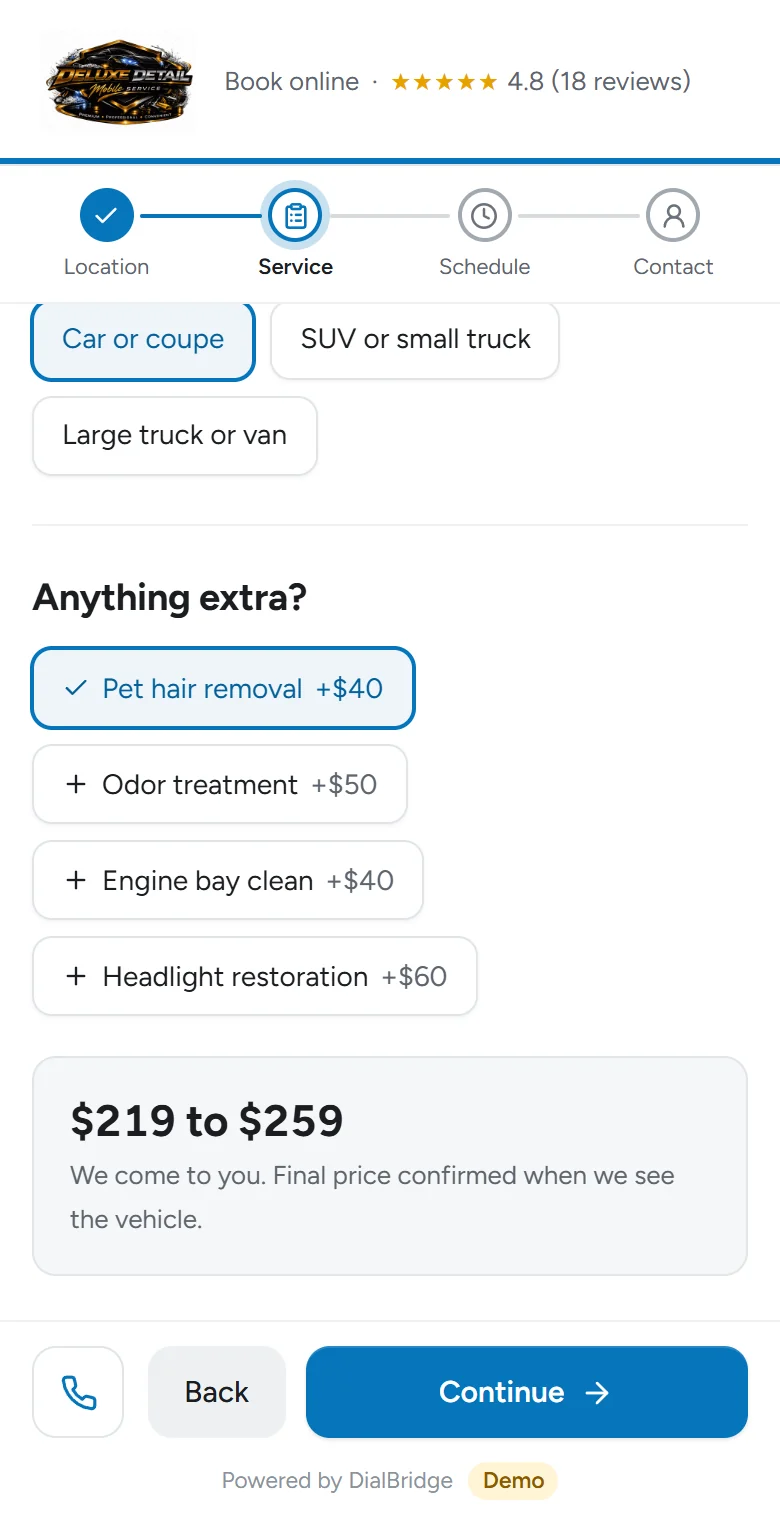
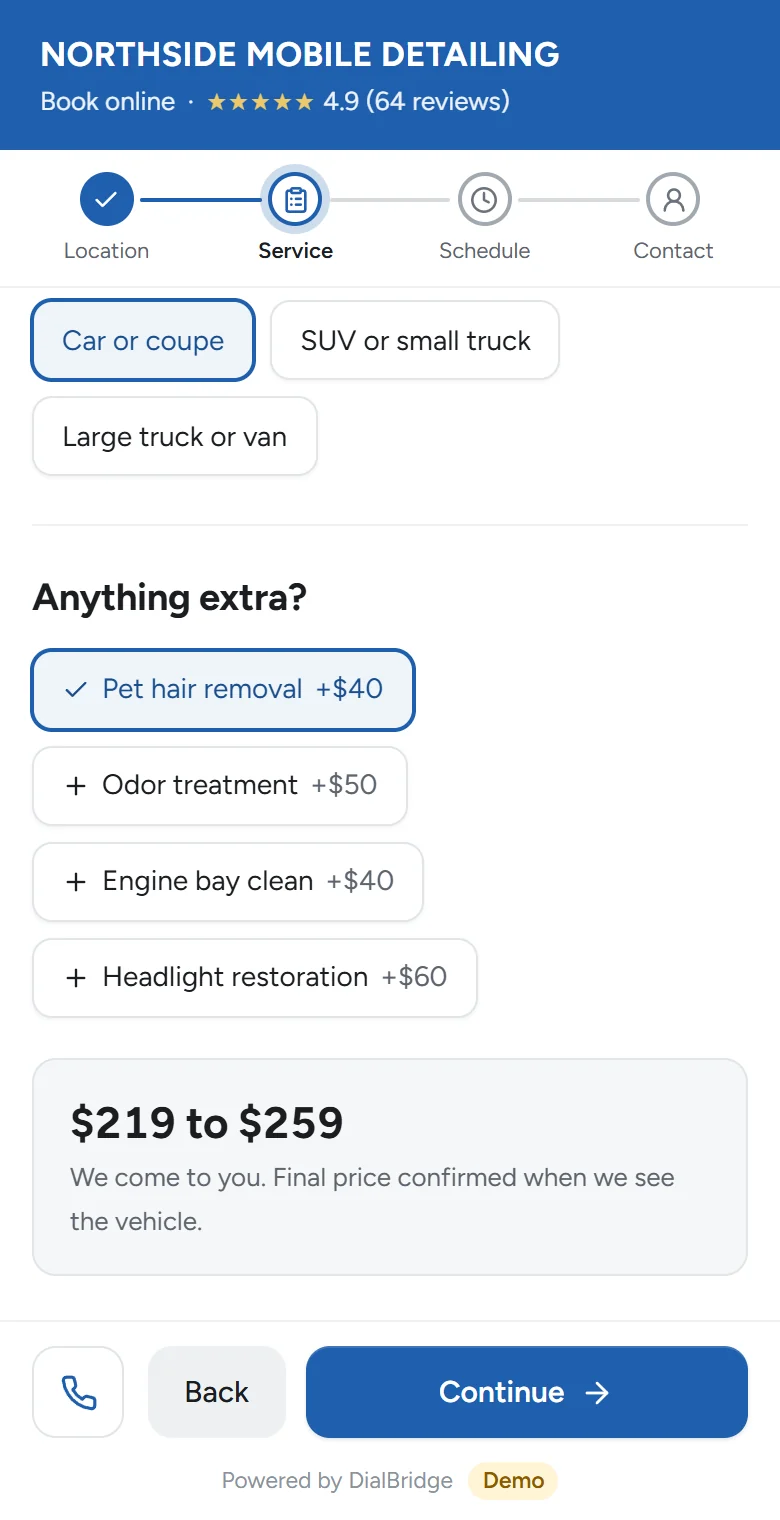
Product and funnel pages: replace the real detailing business with a fictional sample (Northside Mobile Detailing); drop its screenshots

diff --git a/product/index.html b/product/index.html
@@ -318,14 +318,14 @@ footer .wrap{display:flex;justify-content:space-between;flex-wrap:wrap;gap:12px}
       <div class="demo-top">
         <div class="seg" role="tablist" aria-label="Pick a sample business" id="seg">
           <span class="pill" aria-hidden="true"></span>
-          <button role="tab" aria-selected="true" data-b="deluxe-detail">Mobile detailing</button>
+          <button role="tab" aria-selected="true" data-b="northside-detail">Mobile detailing</button>
           <button role="tab" aria-selected="false" data-b="harbor-haul">Junk removal</button>
           <button role="tab" aria-selected="false" data-b="sparkle-and-co">Cleaning</button>
         </div>
         <span class="live"><i></i>Live demo</span>
       </div>
-      <div class="frame"><iframe id="heroFrame" title="Live booking demo" src="../book.html?b=deluxe-detail&amp;embed=1&amp;inline=1"></iframe></div>
-      <p class="demo-note"><span>Tap through it. Nothing is sent anywhere.</span><span id="demoName">Deluxe Details, Slidell LA</span></p>
+      <div class="frame"><iframe id="heroFrame" title="Live booking demo" src="../book.html?b=northside-detail&amp;embed=1&amp;inline=1"></iframe></div>
+      <p class="demo-note"><span>Tap through it. Nothing is sent anywhere.</span><span id="demoName">Northside Mobile Detailing, sample business</span></p>
     </div>
   </section>
 
@@ -364,7 +364,7 @@ footer .wrap{display:flex;justify-content:space-between;flex-wrap:wrap;gap:12px}
       <div>
         <p class="eyebrow">After they book</p>
         <h2 style="margin-top:18px">Confirmations and reminders, in their own time zone.</h2>
-        <p style="color:var(--ink2);max-width:500px;margin-top:18px">Every text says the time the way the customer picked it, so a customer in Louisiana reads 9:00 AM CST, not your 10:00 AM. Each reminder reads differently, so nobody thinks it was sent twice.</p>
+        <p style="color:var(--ink2);max-width:500px;margin-top:18px">Every text says the time the way the customer picked it, so a customer in Houston reads 9:00 AM CST, even when your office runs on Eastern time. Each reminder reads differently, so nobody thinks it was sent twice.</p>
         <ul class="list">
           <li><span>RIGHT AWAY</span>You're booked for Friday, Oct 9 at 9:00 AM CST.</li>
           <li><span>DAY BEFORE</span>Looking forward to your detail tomorrow at 9:00 AM CST.</li>
@@ -375,9 +375,9 @@ footer .wrap{display:flex;justify-content:space-between;flex-wrap:wrap;gap:12px}
       <div class="lock" aria-hidden="true">
         <div class="scr">
           <div class="clock"><small>Friday, October 9</small><b>8:02</b></div>
-          <div class="note"><div class="h"><b>Deluxe Details</b><span>now</span></div>Hey Craig, we'll be there in about an hour (9:00 AM CST). Text back if anything changed.</div>
-          <div class="note"><div class="h"><b>Deluxe Details</b><span>yesterday</span></div>Hey Craig, looking forward to your detail tomorrow at 9:00 AM CST. If the time doesn't work anymore, just text back.</div>
-          <div class="note"><div class="h"><b>Deluxe Details</b><span>Wed</span></div>You're booked for Friday, Oct 9 at 9:00 AM CST. Full detail, SUV. $249 to $289.</div>
+          <div class="note"><div class="h"><b>Northside Detailing</b><span>now</span></div>Hey Jordan, we'll be there in about an hour (9:00 AM CST). Text back if anything changed.</div>
+          <div class="note"><div class="h"><b>Northside Detailing</b><span>yesterday</span></div>Hey Jordan, looking forward to your detail tomorrow at 9:00 AM CST. If the time doesn't work anymore, just text back.</div>
+          <div class="note"><div class="h"><b>Northside Detailing</b><span>Wed</span></div>You're booked for Friday, Oct 9 at 9:00 AM CST. Full detail, SUV. $249 to $289.</div>
         </div>
       </div>
     </div>
@@ -538,7 +538,7 @@ footer .wrap{display:flex;justify-content:space-between;flex-wrap:wrap;gap:12px}
 
   // Hero: live widget, sized to each screen, with a trade switcher.
   var frame = document.getElementById('heroFrame'), seg = document.getElementById('seg'), pill = seg.querySelector('.pill'), demoName = document.getElementById('demoName');
-  var NAMES = { 'deluxe-detail': 'Deluxe Details, Slidell LA', 'harbor-haul': 'Harbor Haul, sample business', 'sparkle-and-co': 'Sparkle & Co., sample business' };
+  var NAMES = { 'northside-detail': 'Northside Mobile Detailing, sample business', 'harbor-haul': 'Harbor Haul, sample business', 'sparkle-and-co': 'Sparkle & Co., sample business' };
   function placePill() { var on = seg.querySelector('[aria-selected="true"]'); pill.style.width = on.offsetWidth + 'px'; pill.style.transform = 'translateX(' + (on.offsetLeft - 4 + 4) + 'px)'; }
   placePill(); addEventListener('resize', placePill);
   if (document.fonts && document.fonts.ready) document.fonts.ready.then(placePill);

diff --git a/engine.js b/engine.js
@@ -298,7 +298,7 @@
         }
       }
       if (d.type === 'contact') {
-        h += nameFields(1) + (d.askAddress ? '<label class="fld"><span>Address where the vehicle will be <em>*</em></span><input data-in="addr" autocomplete="street-address" placeholder="123 Main St, Slidell" value="' + esc(S.addr) + '"></label>' : '') + (hasZipStep() ? '' : '<label class="fld narrow"><span>ZIP code <em>*</em></span><input data-in="zip" inputmode="numeric" maxlength="5" placeholder="07430" value="' + esc(S.zip) + '"></label><p class="warn" id="oa"' + (/^\d{5}$/.test(S.zip) && !inArea() ? '' : ' hidden') + '>' + esc(B.name) + ' does not serve this ZIP yet.</p>') +
+        h += nameFields(1) + (d.askAddress ? '<label class="fld"><span>Address where the vehicle will be <em>*</em></span><input data-in="addr" autocomplete="street-address" placeholder="123 Main St" value="' + esc(S.addr) + '"></label>' : '') + (hasZipStep() ? '' : '<label class="fld narrow"><span>ZIP code <em>*</em></span><input data-in="zip" inputmode="numeric" maxlength="5" placeholder="07430" value="' + esc(S.zip) + '"></label><p class="warn" id="oa"' + (/^\d{5}$/.test(S.zip) && !inArea() ? '' : ' hidden') + '>' + esc(B.name) + ' does not serve this ZIP yet.</p>') +
           '<p class="fine">By sending, you agree that ' + esc(B.name) + ' may text you about this request. Message and data rates may apply. Reply STOP to opt out. No account, no spam.</p>';
       }
       if (d.type === 'message') {

diff --git a/go/index.html b/go/index.html
@@ -138,7 +138,7 @@ footer{padding:36px 0;color:var(--mute);font-size:14px}
     <h2 style="margin-top:14px">Click around. These are samples we built to show the booking flow.</h2>
     <div class="ex">
       <a href="../site.html?b=harbor-haul" target="_blank" rel="noopener"><img src="../product/img/site-button.png" alt="Sample junk removal website"><div>Harbor Haul<small>Junk removal sample</small></div></a>
-      <a href="../site.html?b=deluxe-detail" target="_blank" rel="noopener"><img src="../product/img/site-popup.png" alt="Sample mobile detailing website"><div>Deluxe Details demo<small>Mobile detailing demo</small></div></a>
+      <a href="../site.html?b=northside-detail" target="_blank" rel="noopener"><img src="../product/img/northside-popup.webp" alt="Sample mobile detailing website"><div>Northside Mobile Detailing<small>Mobile detailing sample</small></div></a>
       <a href="../book.html?b=sparkle-and-co" target="_blank" rel="noopener"><img src="../product/img/cleaning-menu.png" alt="Sample cleaning booking page"><div>Sparkle &amp; Co.<small>Cleaning booking page sample</small></div></a>
     </div>
   </div>
